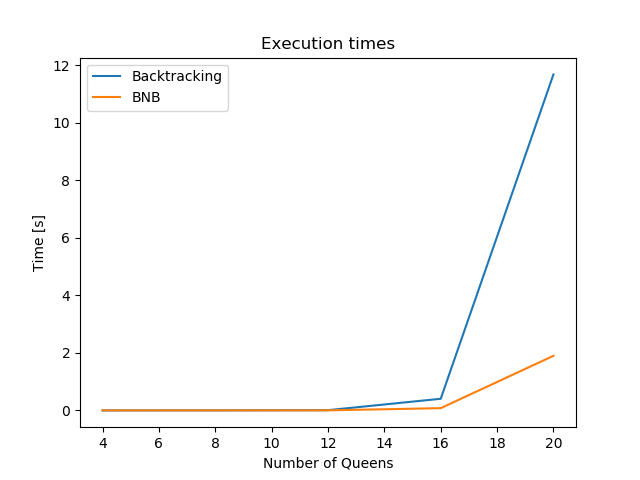
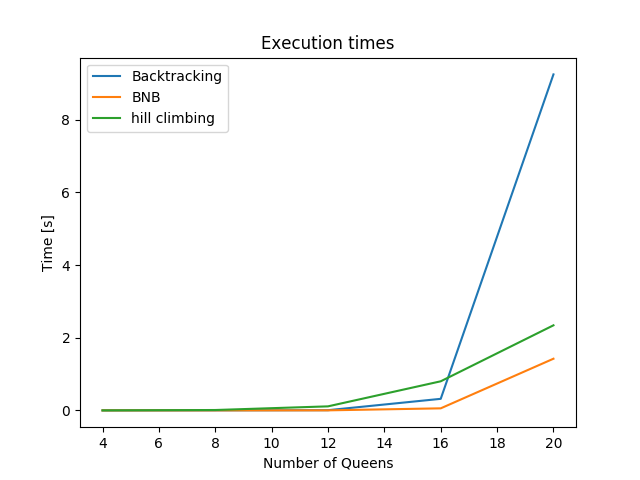
Hill Climbing functionality added, done for a set sample size to balance out the effects of randomisation

diff --git a/ai_group_assignment.py b/ai_group_assignment.py
@@ -6,6 +6,9 @@
 import sys
 import time
 import matplotlib.pyplot as plt
+from copy import deepcopy
+import random
+import numpy as np
 
 num_checks = 0
 
@@ -172,20 +175,134 @@ def n_queens_backtracking(number_queens):
     print(execution_time)
     return execution_time
 
+##~~~~~~~~~~~~~~~~ HILL CLIMBING ~~~~~~~~~~~~~~
+
+def generate_random_board(n):
+    """
+    Returns a vector of positions where queen is for
+    each column
+    """
+    q = []
+    b = create_board(n)
+    for col in range(n):  
+        r = random.randint(0, n-1)
+        q.append(r)
+        b[r][col] = 1
+    return b, q
+def do_avoid_eachother(i, j, q):
+    """
+    Assumes i != j, and j > i
+    """
+    global num_checks
+    num_checks+=1
+    if q[i] == q[j]:
+        return 0
+    elif abs(j-i) == abs(q[j] - q[i]):
+        return 0
+    else:
+        
+        return 1
+def objective_function(q):
+    """
+    Measure how many pairs of queens do not get in each other's way
+    param: board a 2 d list indicating where queens are
+    param: q : a list indictating where the queens for each column are
+    n: n for n queens
+    """
+    result = 0
+    n = len(q)
+    for i in range(n):
+        for j in range(i+1, n):
+            # check if queen i and j are giving each other grief
+            avoid_eachother = do_avoid_eachother(i,j,q)
+            result += avoid_eachother
+            
+    return result
+
+
+
+def compute_optimum_avoiding_pairs(n):
+    """
+    Compute the optimum number of queens
+    that could avoid each other for n queens
+    problem, given by sigma(n)
+    """
+    count = 0
+    for i in range(n):
+        count+=i
+    return count
+
+def hill_climbing_algorithm(starting_q):
+    """
+    Compute hill climbing algorithm for input
+    list of queen positions
+    """
+    start = time.time()
+    n = len(starting_q)
+    optimum = compute_optimum_avoiding_pairs(n)
+    best_score = objective_function(starting_q) 
+    q = starting_q
+    while(best_score < optimum):
+        better_score_found = False
+        for i in range(n):
+            # Cycle through all queens
+            temp_q = deepcopy(q)
+            for j in range(n):
+                if j != q[i]:
+                    temp_q[i] = j
+                    score = objective_function(temp_q)
+                    if score > best_score:
+                        q = temp_q
+                        best_score = score
+                        better_score_found = True
+                        break
+                
+                
+        if not better_score_found:
+            q = randomise_board(q)
+            best_score = objective_function(q)
+    end = time.time()
+    ##print("Hill Climbing board results:") 
+    ##print_board_q(q)
+    return end-start
+
+def randomise_board(q):
+    """
+    Randomise board given input is a list of
+    queen positions
+    """
+    n = len(q)
+    for i in range(n):
+        q[i] = random.randint(0, n-1)
+    return q
+def print_board_q(q):
+    """
+    Print function specific to the list data structure used in 
+    hill climbing
+    """
+    n = len(q)
+    b = create_board(n)
+    for i in range(n):
+        b[q[i]][i] = 1
+    print_board(b, n)
+##~~~~~~~~~~~~~~~~~~~~~~~~~~~~~~~~~~~~~~~~~~~~~
 
 if __name__ == '__main__':
     backtracking_execution_times = []
     backtracking_num_checks = []
     bnb_execution_times = []
     bnb_num_checks = []
+    hill_climbing_execution_times = []
+    hill_climbing_num_checks = []
     queens_test_range = range(4, 24, 4)
-
+    HILL_CLIMBING_SAMPLE_SIZE = 20 ## In order to account for randomisation
     # backtracking
     for i in queens_test_range:
+        print(i)
         #backtracking
         backtracking_execution_times.append(n_queens_backtracking(i))
         print("BackTracking Time Taken: " + str(n_queens_backtracking(i)))
-        print("Number of checks in BNB: " + str(num_checks))
+        print("Number of checks in Backtracking: " + str(num_checks))
         backtracking_num_checks.append(num_checks)
         num_checks = 0  # reinitialise to 0 for next algorithm
         #bnb
@@ -197,21 +314,38 @@ if __name__ == '__main__':
         bnb_num_checks.append(num_checks)
         num_checks = 0  # reinitialise to 0 for next algorithm
 
+        ##hill climbing
+        temp_times = []
+        temp_checks = []
+        for _ in range(HILL_CLIMBING_SAMPLE_SIZE):
+            _, q = generate_random_board(i)
+            t = hill_climbing_algorithm(q)
+            temp_times.append(t)
+            temp_checks.append(num_checks)
+            num_checks = 0
+        hill_climbing_execution_times.append(np.median(temp_times))
+        hill_climbing_num_checks.append(np.median(temp_checks))
+        print("Hill Climbing Time Taken: %s" % (np.median(temp_times)))
+        print("Number of checks in Hill Climbing: " + str(np.median(temp_checks)))
+        
+
     # execution time plot
     plt.plot(queens_test_range, backtracking_execution_times)
     plt.plot(queens_test_range, bnb_execution_times)
+    plt.plot(queens_test_range, hill_climbing_execution_times)
     plt.title("Execution times")
     plt.xlabel("Number of Queens")
     plt.ylabel("Time [s]")
-    plt.legend(['Backtracking', "BNB"], loc='upper left')
+    plt.legend(['Backtracking', "BNB", "hill climbing"], loc='upper left')
     plt.savefig('execution_times.png')
     plt.clf()
 
     # number of checks plot
     plt.plot(queens_test_range, backtracking_num_checks)
     plt.plot(queens_test_range, bnb_num_checks)
+    plt.plot(queens_test_range, hill_climbing_num_checks)
     plt.title("Number of Checks")
     plt.xlabel("Number of Queens")
     plt.ylabel("Time [s]")
-    plt.legend(['Backtracking', "BNB"], loc='upper left')
+    plt.legend(['Backtracking', "BNB", "hill_climbing"], loc='upper left')
     plt.savefig('number_checks.png')
